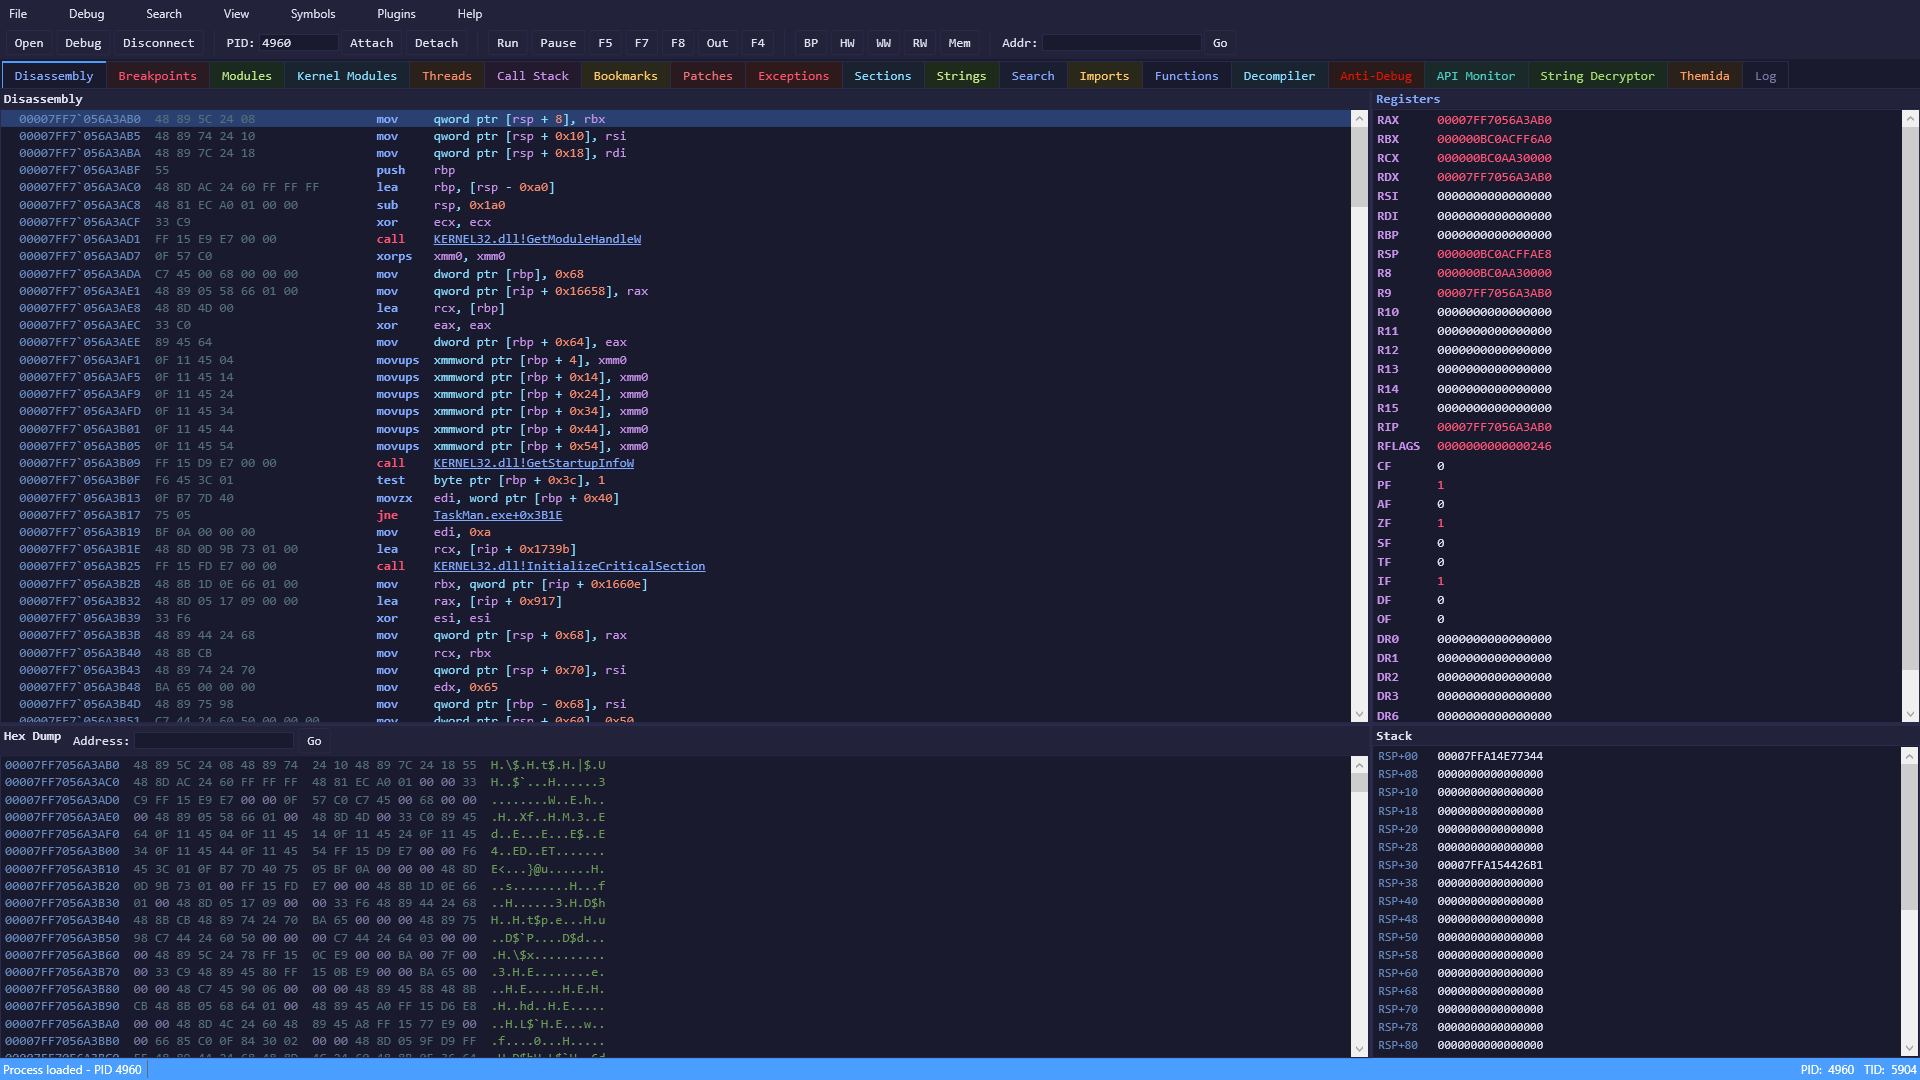
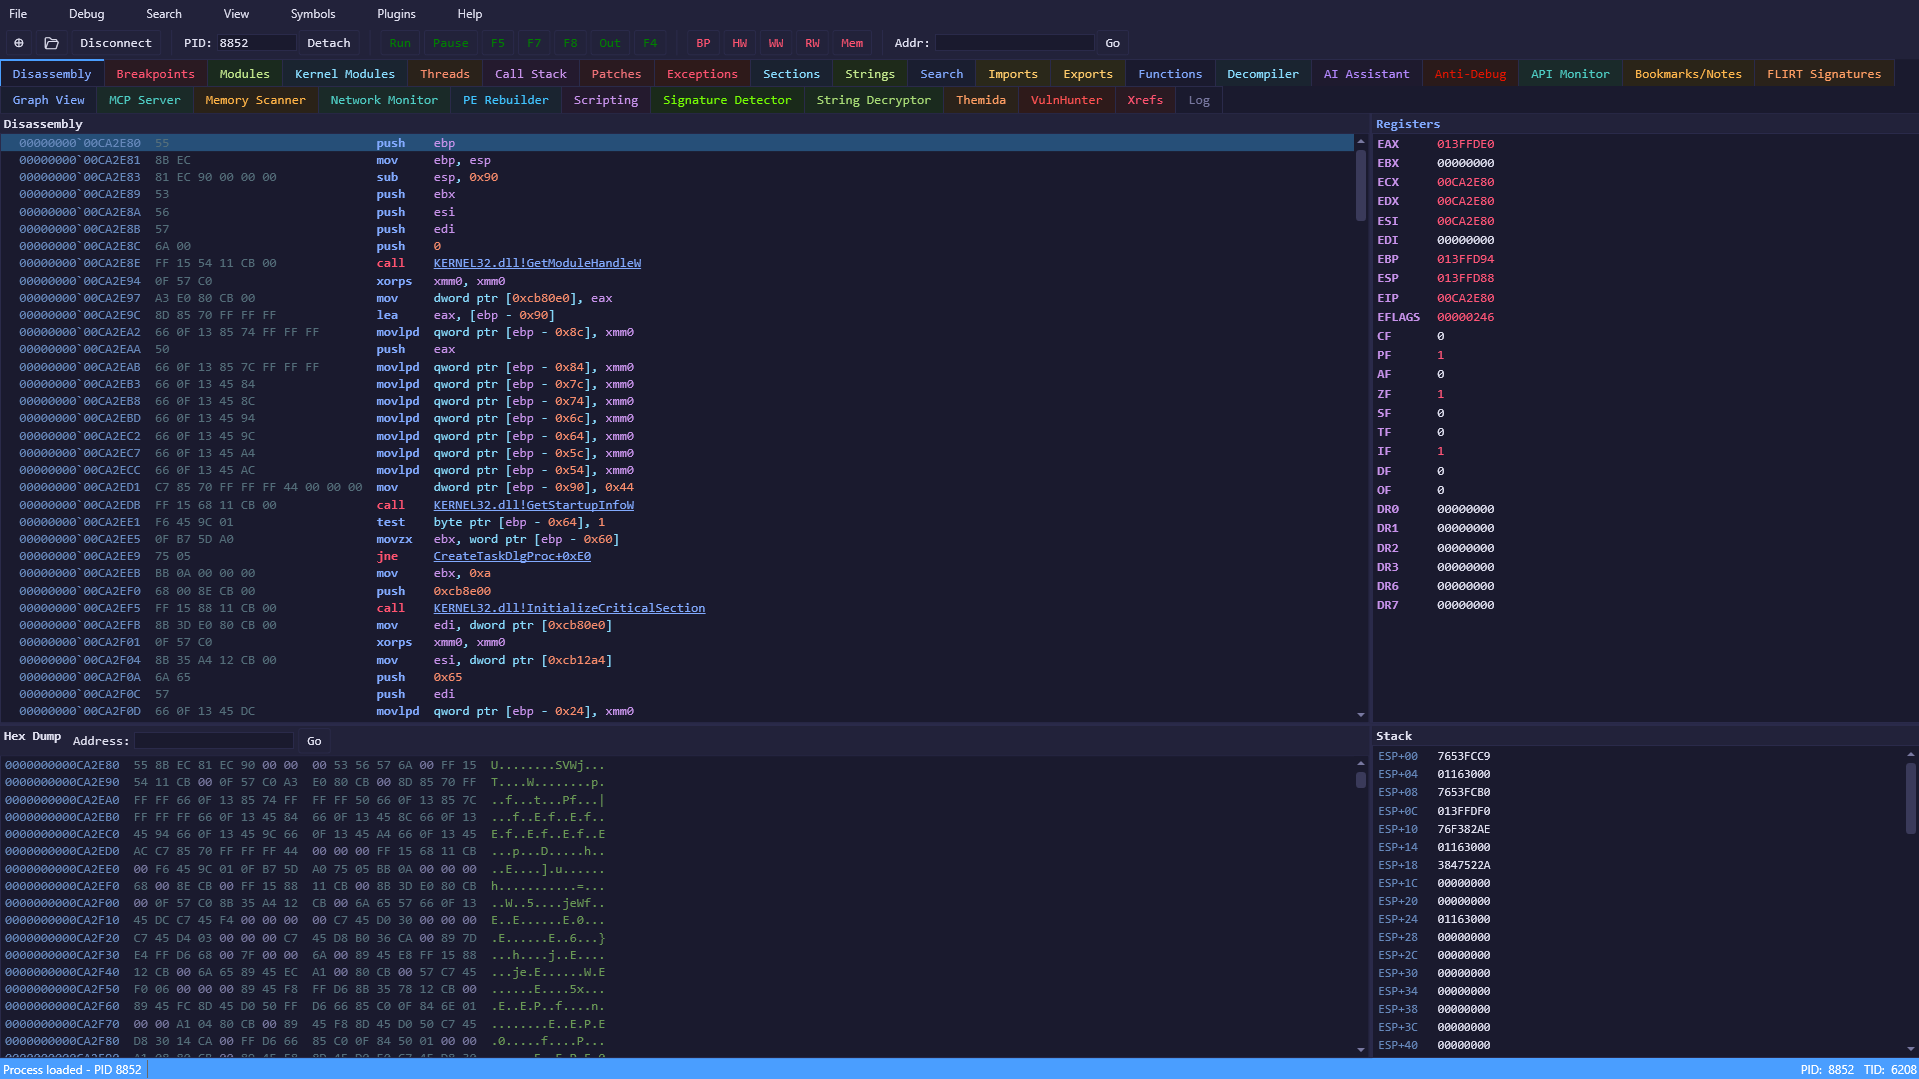
Fix theme colors for decompiler&scripting tabs

Changed region(s): [[0.0, 0.0306, 0.9838, 0.9787], [0.0, 0.7034, 0.3075, 1.0], [0.9224, 0.0918, 1.0, 1.0]]

diff --git a/src/ui/MainWindow.xaml b/src/ui/MainWindow.xaml
@@ -860,8 +860,6 @@
                     <ae:TextEditor x:Name="DecompilerOutput"
                                    IsReadOnly="True"
                                    FontFamily="Consolas" FontSize="13"
-                                   Background="{DynamicResource BgBrush}"
-                                   Foreground="{DynamicResource FgBrush}"
                                    BorderBrush="{DynamicResource BorderBrush}"
                                    VerticalScrollBarVisibility="Auto"
                                    HorizontalScrollBarVisibility="Auto"

diff --git a/src/ui/MainWindow.xaml.cs b/src/ui/MainWindow.xaml.cs
@@ -22,9 +22,9 @@ public partial class MainWindow : Window
     public MainWindow()
     {
         InitializeComponent();
-        LoadDecompilerHighlighting();
         if (VM.ThemeColors.Count > 0)
             ApplyThemeColors(VM.ThemeColors);
+        LoadDecompilerHighlighting();
         VM.Instructions.CollectionChanged += (_, _) => RefreshDisasmView();
         VM.DisasmAppend += (instrs, trimTop) =>
         {
@@ -128,14 +128,9 @@ public partial class MainWindow : Window
 
     private void LoadDecompilerHighlighting()
     {
-        var asm = typeof(MainWindow).Assembly;
-        using var stream = asm.GetManifestResourceStream("KernelFlirt.UI.Themes.CDecompiler.xshd");
-        if (stream != null)
-        {
-            using var reader = new XmlTextReader(stream);
-            DecompilerOutput.SyntaxHighlighting = HighlightingLoader.Load(reader, HighlightingManager.Instance);
-        }
-        DecompilerOutput.LineNumbersForeground = new SolidColorBrush(Color.FromRgb(0x60, 0x60, 0x60));
+        ApplyDecompilerHighlighting();
+        DecompilerOutput.SetResourceReference(ICSharpCode.AvalonEdit.TextEditor.BackgroundProperty, "ScriptBgBrush");
+        DecompilerOutput.SetResourceReference(ICSharpCode.AvalonEdit.TextEditor.ForegroundProperty, "ScriptFgBrush");
 
         // Context menu
         var ctx = new ContextMenu();
@@ -154,6 +149,97 @@ public partial class MainWindow : Window
         ctx.Items.Add(new Separator());
         ctx.Items.Add(copyAllItem);
         DecompilerOutput.ContextMenu = ctx;
+    }
+
+    private void ApplyDecompilerHighlighting()
+    {
+        try
+        {
+            var dict = Application.Current.Resources.MergedDictionaries[0];
+            string Col(string key, string fallback)
+            {
+                if (dict.Contains(key) && dict[key] is SolidColorBrush b)
+                    return $"#{b.Color.R:X2}{b.Color.G:X2}{b.Color.B:X2}";
+                return fallback;
+            }
+
+            var keyword = Col("ScriptKeywordBrush", "#569CD6");
+            var control = Col("ScriptControlBrush", "#C586C0");
+            var type    = Col("ScriptTypeBrush",    "#4EC9B0");
+            var str     = Col("ScriptStringBrush",  "#CE9178");
+            var comment = Col("ScriptCommentBrush", "#6A9955");
+            var number  = Col("ScriptNumberBrush",  "#B5CEA8");
+            var method  = Col("ScriptMethodBrush",  "#DCDCAA");
+            var punct   = Col("ScriptPunctuationBrush", "#DCDCDC");
+            var fg      = Col("ScriptFgBrush",      "#DCDCDC");
+
+            var xshd = $"""
+                <?xml version="1.0"?>
+                <SyntaxDefinition name="C-Themed" xmlns="http://icsharpcode.net/sharpdevelop/syntaxdefinition/2008">
+                  <Color name="Comment"       foreground="{comment}" />
+                  <Color name="String"        foreground="{str}" />
+                  <Color name="Preprocessor"  foreground="{control}" />
+                  <Color name="Punctuation"   foreground="{punct}" />
+                  <Color name="NumberLiteral" foreground="{number}" />
+                  <Color name="Keywords"      foreground="{keyword}" fontWeight="bold" />
+                  <Color name="ControlFlow"   foreground="{control}" fontWeight="bold" />
+                  <Color name="Types"         foreground="{type}" />
+                  <Color name="MethodCall"    foreground="{method}" />
+                  <Color name="Default"       foreground="{fg}" />
+
+                  <RuleSet ignoreCase="false">
+                    <Span color="Comment" begin="//" />
+                    <Span color="Comment" multiline="true" begin="/\*" end="\*/" />
+                    <Span color="String">
+                      <Begin>"</Begin>
+                      <End>"</End>
+                      <RuleSet><Span begin="\\" end="." /></RuleSet>
+                    </Span>
+                    <Span color="String">
+                      <Begin>'</Begin>
+                      <End>'</End>
+                      <RuleSet><Span begin="\\" end="." /></RuleSet>
+                    </Span>
+                    <Span color="Preprocessor" begin="\#" />
+
+                    <Rule color="NumberLiteral">\b0[xX][0-9a-fA-F]+[uUlL]*\b</Rule>
+                    <Rule color="NumberLiteral">\b[0-9][0-9]*\.?[0-9]*([eE][+-]?[0-9]+)?[fFdD]?\b</Rule>
+
+                    <Keywords color="ControlFlow">
+                      <Word>if</Word><Word>else</Word><Word>switch</Word><Word>case</Word>
+                      <Word>for</Word><Word>while</Word><Word>do</Word>
+                      <Word>break</Word><Word>continue</Word><Word>return</Word>
+                      <Word>goto</Word><Word>default</Word>
+                    </Keywords>
+                    <Keywords color="Types">
+                      <Word>void</Word><Word>int</Word><Word>unsigned</Word><Word>signed</Word>
+                      <Word>char</Word><Word>short</Word><Word>long</Word><Word>float</Word><Word>double</Word>
+                      <Word>bool</Word><Word>struct</Word><Word>union</Word><Word>enum</Word><Word>typedef</Word>
+                      <Word>const</Word><Word>static</Word><Word>extern</Word><Word>volatile</Word>
+                      <Word>inline</Word><Word>register</Word><Word>auto</Word><Word>restrict</Word>
+                      <Word>size_t</Word><Word>int8_t</Word><Word>int16_t</Word><Word>int32_t</Word><Word>int64_t</Word>
+                      <Word>uint8_t</Word><Word>uint16_t</Word><Word>uint32_t</Word><Word>uint64_t</Word>
+                      <Word>BYTE</Word><Word>WORD</Word><Word>DWORD</Word><Word>QWORD</Word>
+                      <Word>BOOL</Word><Word>HANDLE</Word><Word>PVOID</Word><Word>LPVOID</Word>
+                      <Word>HMODULE</Word><Word>FARPROC</Word><Word>LPCSTR</Word><Word>LPSTR</Word>
+                      <Word>LPCWSTR</Word><Word>LPWSTR</Word><Word>NTSTATUS</Word>
+                      <Word>NULL</Word><Word>TRUE</Word><Word>FALSE</Word>
+                    </Keywords>
+                    <Keywords color="Keywords">
+                      <Word>sizeof</Word><Word>typeof</Word><Word>alignof</Word>
+                      <Word>__cdecl</Word><Word>__stdcall</Word><Word>__fastcall</Word><Word>__thiscall</Word>
+                      <Word>__declspec</Word><Word>__attribute__</Word>
+                    </Keywords>
+                    <Rule color="MethodCall">[\w]+(?=\s*\()</Rule>
+                    <Rule color="Punctuation">[()\[\];,.*&amp;!~+-/%&lt;&gt;=|^?:]</Rule>
+                  </RuleSet>
+                </SyntaxDefinition>
+                """;
+
+            using var reader = new XmlTextReader(new System.IO.StringReader(xshd));
+            DecompilerOutput.SyntaxHighlighting = HighlightingLoader.Load(reader, HighlightingManager.Instance);
+        }
+        catch { /* fallback: no highlighting */ }
     }
 
     private void UpdateDecompilerText()
@@ -1261,6 +1347,9 @@ public partial class MainWindow : Window
         // Update plugin wrapper scopes with new plugin brush values
         foreach (var wrapper in _pluginWrappers)
             ApplyPluginResources(wrapper);
+
+        // Re-apply decompiler highlighting with new theme colors
+        ApplyDecompilerHighlighting();
     }
 
     /// <summary>
